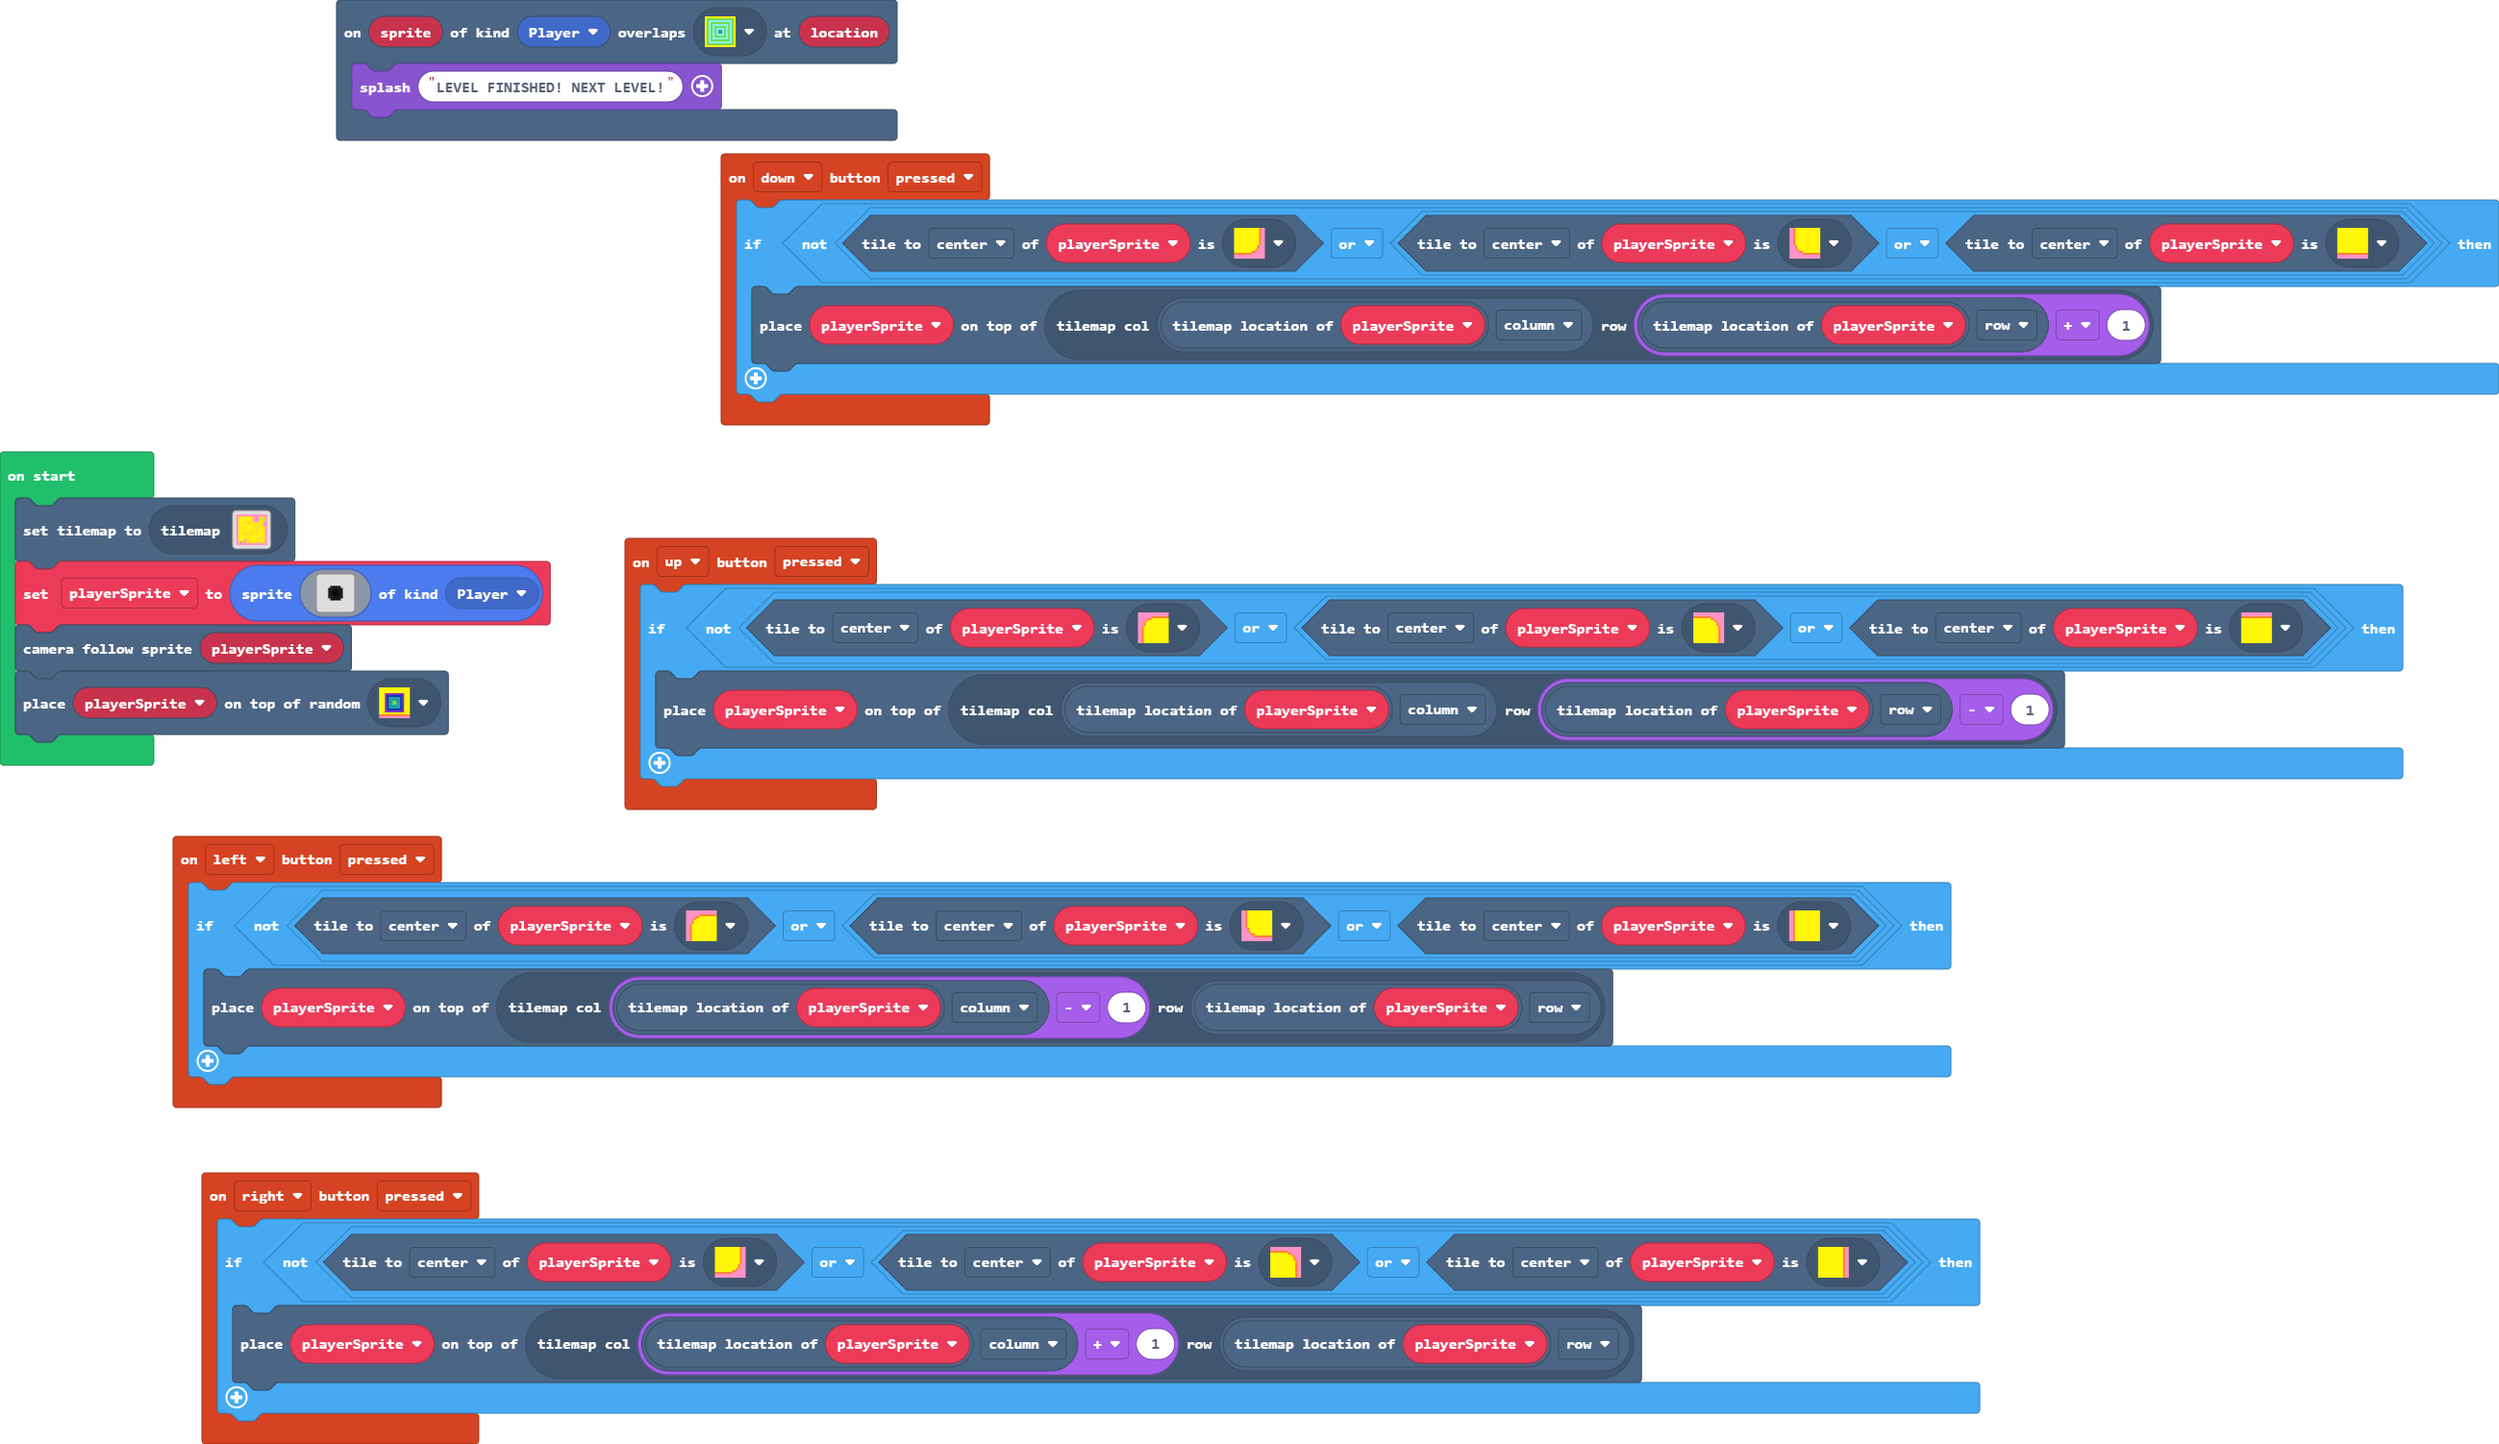
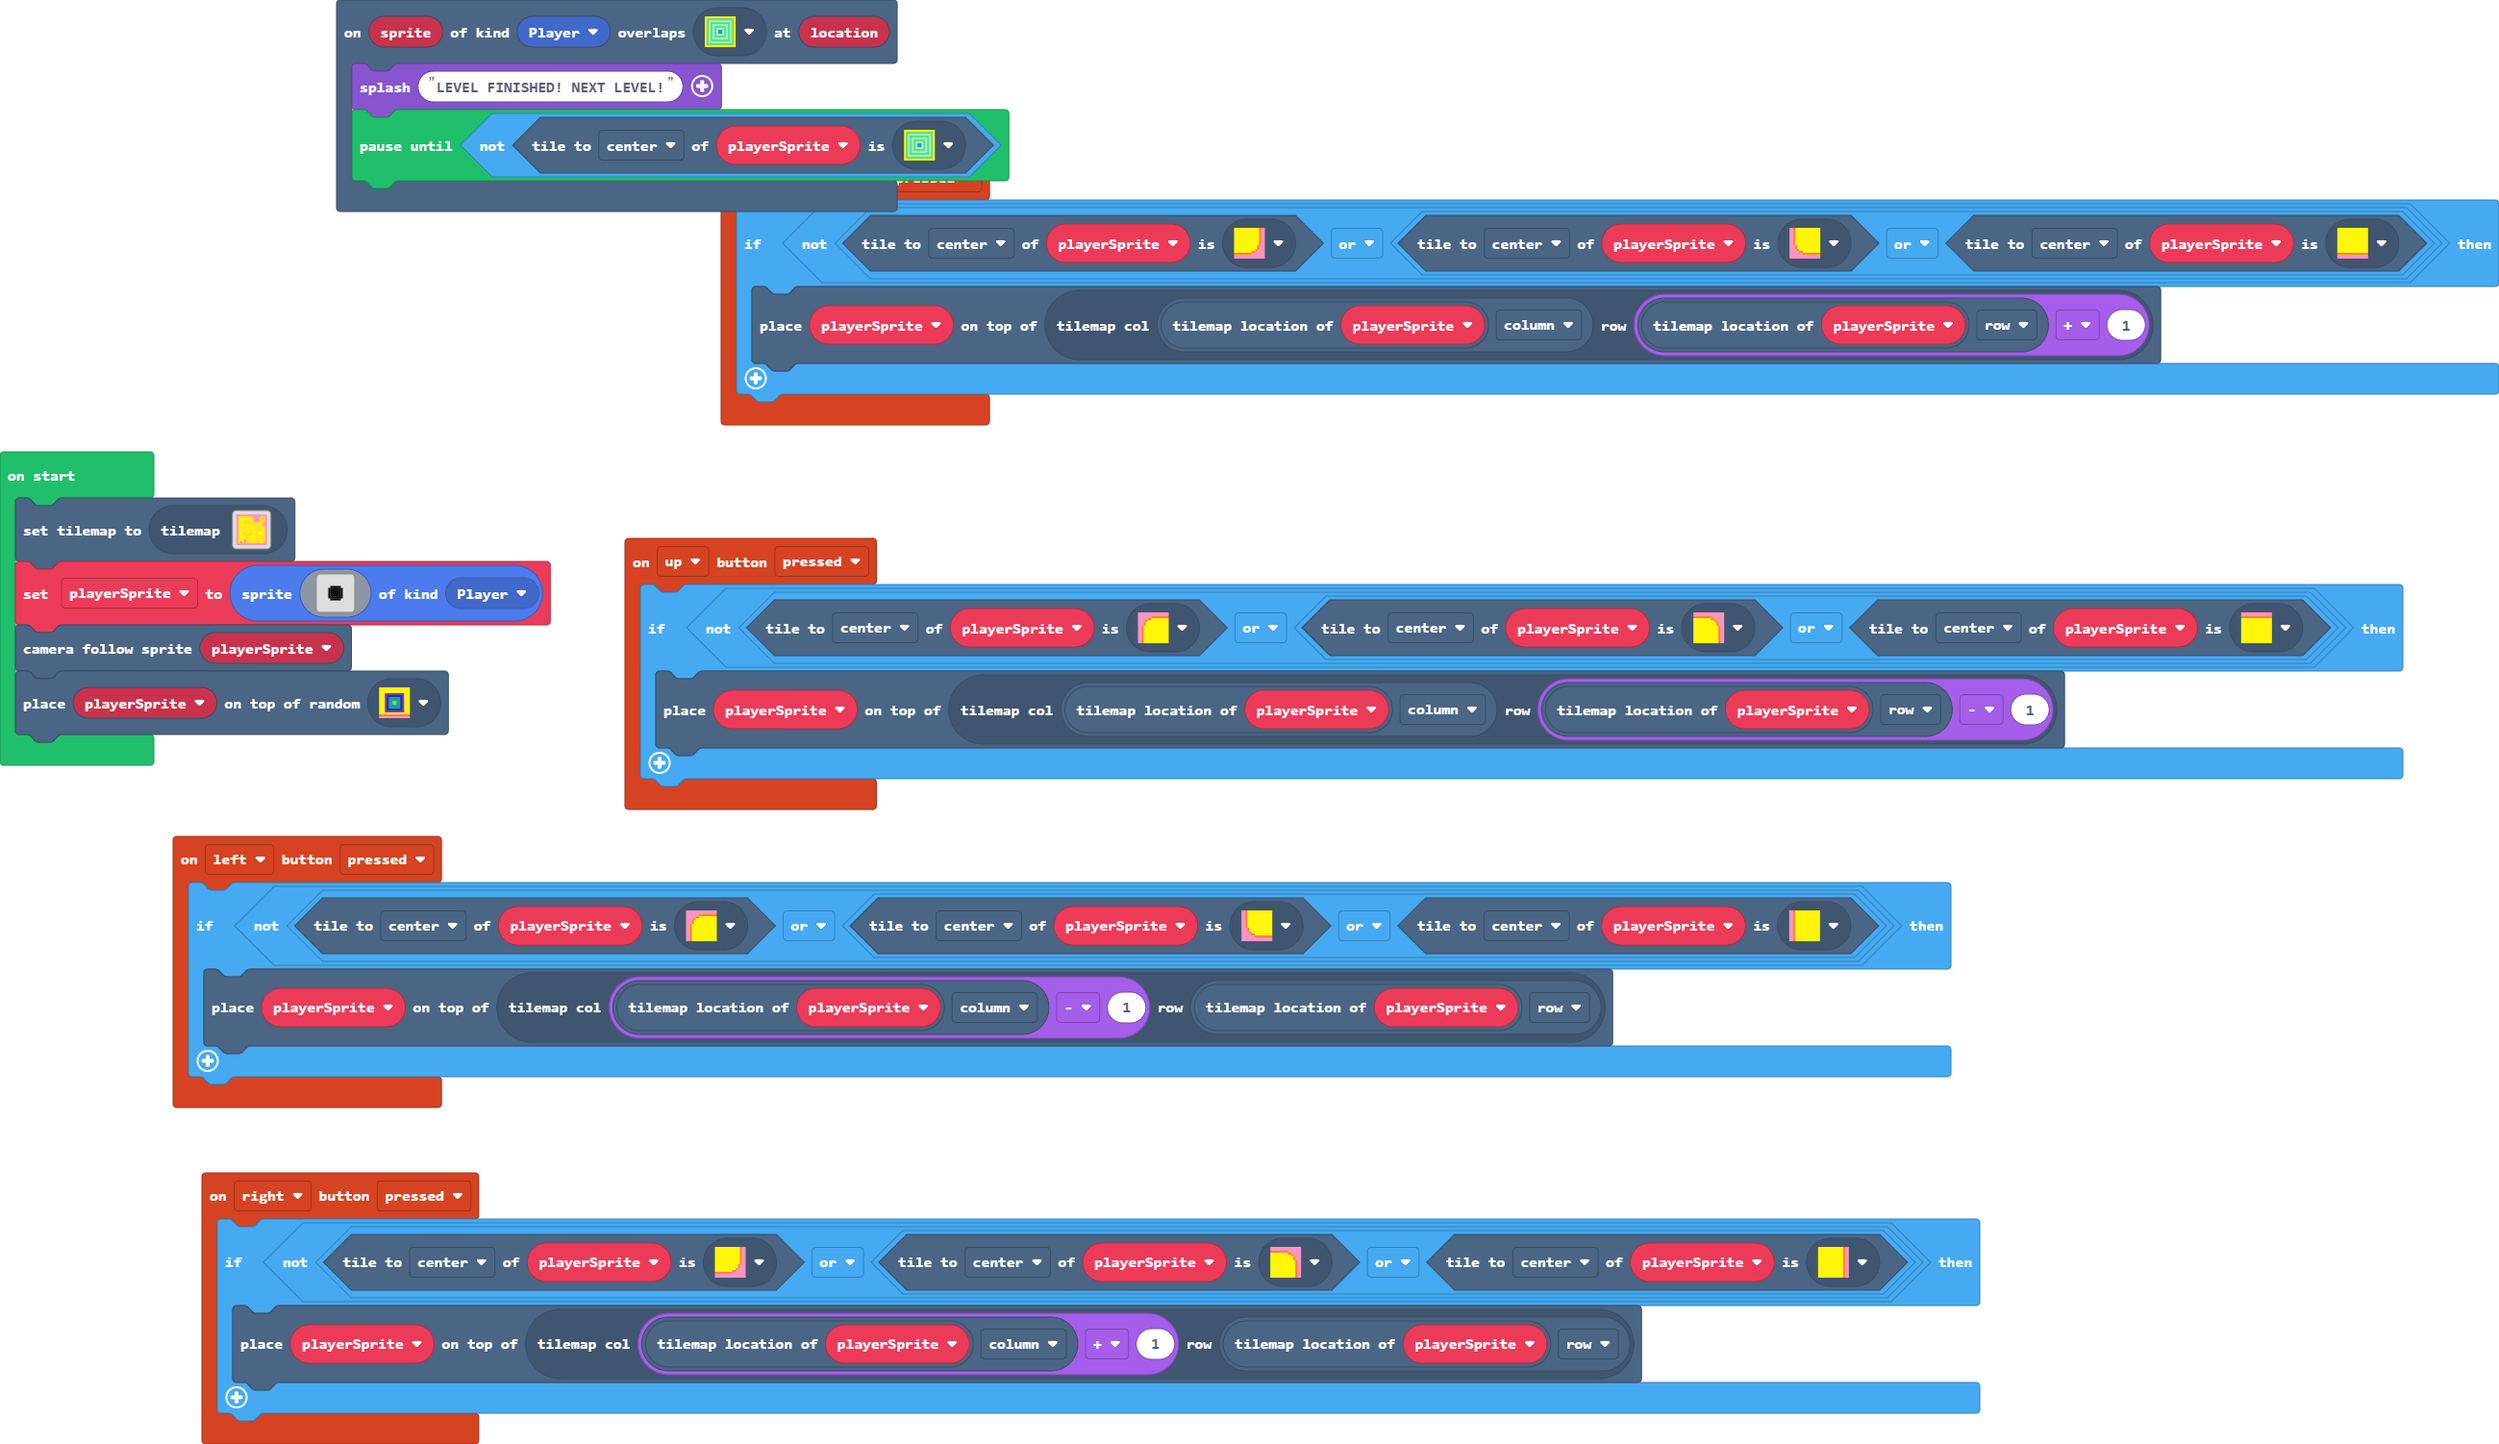
Update main.blocks, main.ts

Changed region(s): [[0.1247, 0.0613, 0.4052, 0.1531]]

diff --git a/main.ts b/main.ts
@@ -10,6 +10,7 @@ controller.left.onEvent(ControllerButtonEvent.Pressed, function () {
 })
 scene.onOverlapTile(SpriteKind.Player, assets.tile`myTile16`, function (sprite, location) {
     game.splash("LEVEL FINISHED! NEXT LEVEL!")
+    pauseUntil(() => !(playerSprite.tileKindAt(TileDirection.Center, assets.tile`myTile16`)))
 })
 controller.right.onEvent(ControllerButtonEvent.Pressed, function () {
     if (!(playerSprite.tileKindAt(TileDirection.Center, assets.tile`myTile1`) || (playerSprite.tileKindAt(TileDirection.Center, assets.tile`myTile2`) || playerSprite.tileKindAt(TileDirection.Center, assets.tile`myTile7`)))) {
